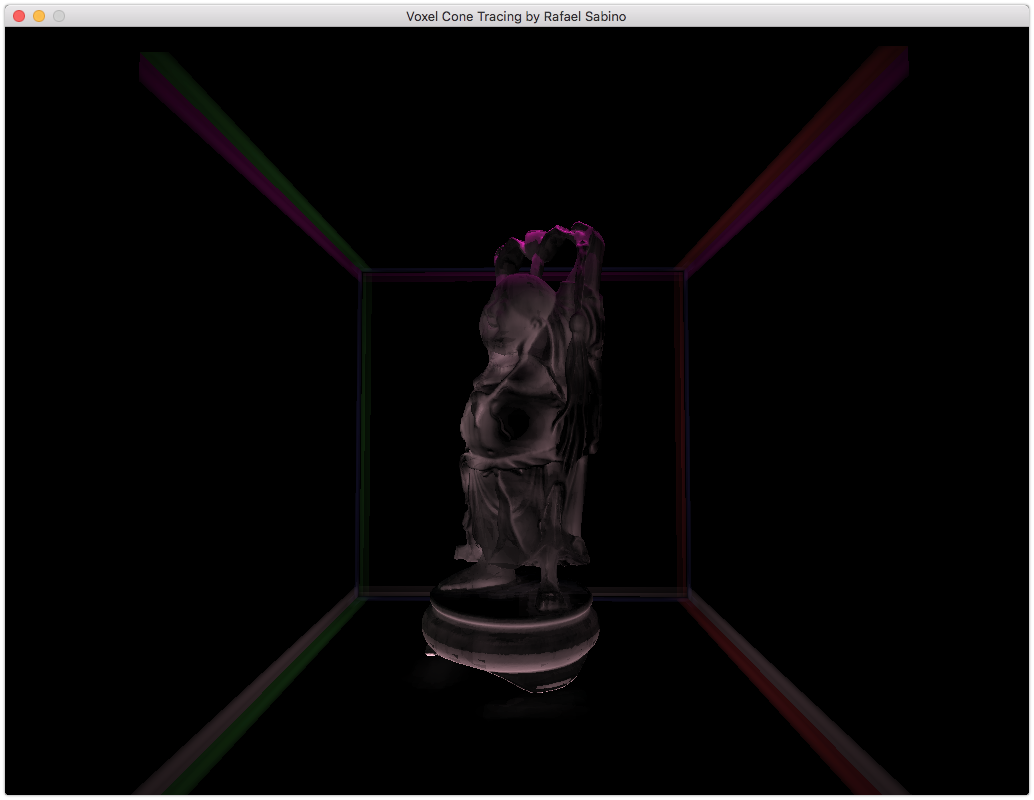
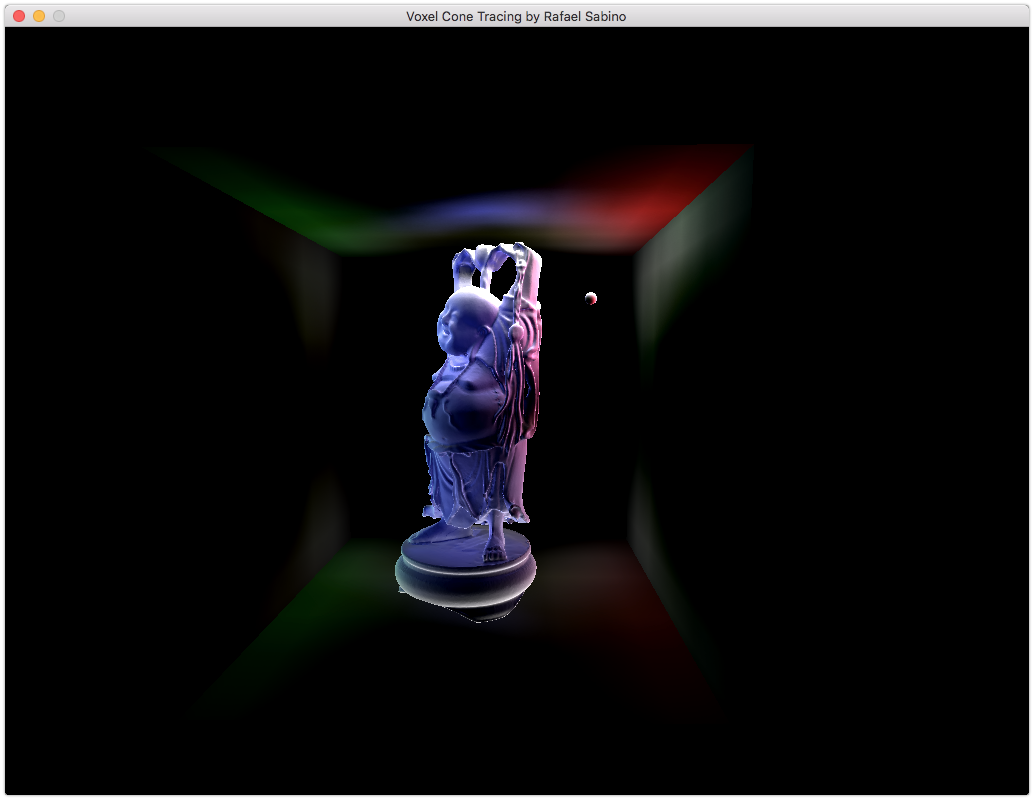
Ambient Occlusion Added in Final Composite
Tweaked numbers to exagerate both ambient occlusion and indirect illumination in teh composite render.

Changed region(s): [[0.1238, 0.0625, 0.8975, 1.0], [0.3404, 0.4062, 0.3714, 0.6562]]

diff --git a/Source/Scene/Scenes/GlassScene.cpp b/Source/Scene/Scenes/GlassScene.cpp
@@ -16,6 +16,7 @@ namespace {
 	Mesh * buddhaRenderer;
 	Mesh * sphereRenderer;
     Shape* lightCube;
+    Shape* buddha;
 }
 
 void GlassScene::init(unsigned int viewportWidth, unsigned int viewportHeight) {
@@ -44,7 +45,7 @@ void GlassScene::init(unsigned int viewportWidth, unsigned int viewportHeight) {
     lightCube->defaultVoxProperties = VoxProperties::White();
     // Buddha.
     int buddhaIndex = renderers.size();
-    Shape * buddha = ObjLoader::loadShapeFromObj("/Assets/Models/buddha.obj");
+    buddha = ObjLoader::loadShapeFromObj("/Assets/Models/buddha.obj");
     shapes.push_back(buddha);
     for (unsigned int i = 0; i < buddha->meshes.size(); ++i) {
         renderers.push_back(((buddha->meshes[i])));
@@ -63,7 +64,7 @@ void GlassScene::init(unsigned int viewportWidth, unsigned int viewportHeight) {
 
     
     buddha->defaultVoxProperties.specularColor = glm::vec3(0.99f, 0.62f, 0.43f);
-    buddha->defaultVoxProperties.diffuseColor = (glm::vec3(0.2f, 0.2f, 0.2f));
+    buddha->defaultVoxProperties.diffuseColor = (glm::vec3(0.2f, 0.2f, 0.8f));
     buddha->defaultVoxProperties.emissivity = 0.0f;
     buddha->defaultVoxProperties.transparency = 1.f;
     buddha->defaultVoxProperties.refractiveIndex = 1.21f;
@@ -96,15 +97,12 @@ void GlassScene::init(unsigned int viewportWidth, unsigned int viewportHeight) {
 void GlassScene::update() {
 	FirstPersonScene::update();
 
-//    buddhaRenderer->transform.rotation.y = FrameRate::time;
-//
+    //buddha->transform.rotation.y = FrameRate::time;
+    //buddha->transform.updateTransformMatrix();
+
     glm::vec3 r = glm::vec3(sinf(float(FrameRate::time * 0.67)), sinf(float(FrameRate::time * 0.78)), cosf(float(FrameRate::time * 0.67))) * .6f;
-//
-//    renderers[lightCubeIndex]->transform.position = 0.45f * r + 0.20f * r * glm::vec3(1, 0, 1);
-//    renderers[lightCubeIndex]->transform.scale = glm::vec3(0.049f);
-//    renderers[lightCubeIndex]->transform.updateTransformMatrix();
-//
-    pointLights[0].position = r;//glm::vec3(-.3f, .8f, .2f); //r; //renderers[lightCubeIndex]->transform.position;
+
+    pointLights[0].position = r; //renderers[lightCubeIndex]->transform.position;
     lightCube->transform.position = r;
     lightCube->transform.scale = glm::vec3(.03f);
     lightCube->transform.updateTransformMatrix();

diff --git a/Source/Graphic/RenderTarget/VoxelizeRT.cpp b/Source/Graphic/RenderTarget/VoxelizeRT.cpp
@@ -110,6 +110,8 @@ void VoxelizeRT::initDepthPeelingBuffers(Texture::Dimensions& dimensions, Textur
     initDepthBuffer(1, dimensions, properties);
     initDepthBuffer(2, dimensions, properties);
     initDepthBuffer(3, dimensions, properties);
+    initDepthBuffer(4, dimensions, properties);
+    initDepthBuffer(5, dimensions, properties);
 }
 
 void VoxelizeRT::voxelize(Scene& renderScene)

diff --git a/Source/Graphic/RenderTarget/VoxelizeRT.h b/Source/Graphic/RenderTarget/VoxelizeRT.h
@@ -84,5 +84,5 @@ private:
     std::vector< std::shared_ptr<Texture3D> > albedoMipMaps;
     std::vector< std::shared_ptr<Texture3D> > normalMipMaps;
     
-    std::array<std::shared_ptr<FBO_2D>, 4> depthFBOs {nullptr, nullptr, nullptr, nullptr};
+    std::array<std::shared_ptr<FBO_2D>, 6> depthFBOs {nullptr, nullptr, nullptr, nullptr};
 };

diff --git a/README.md b/README.md
@@ -9,6 +9,8 @@ The following is a screenshot of the indirect illumination:
 <img src="https://github.com/phonowiz/voxel-cone-tracing/blob/master/Assets/Screenshots/indirect-illumination.png">
 </a>
 
+The following is a screenshot fo teh full illumination (exagerated for illustration purposes):
+<img src="https://github.com/phonowiz/voxel-cone-tracing/blob/master/Assets/Screenshots/full-illumination.png">
 </p>
 
 Inspired by "Interactive Indirect Illumination Using Voxel Cone Tracing" by Crassin et al.
